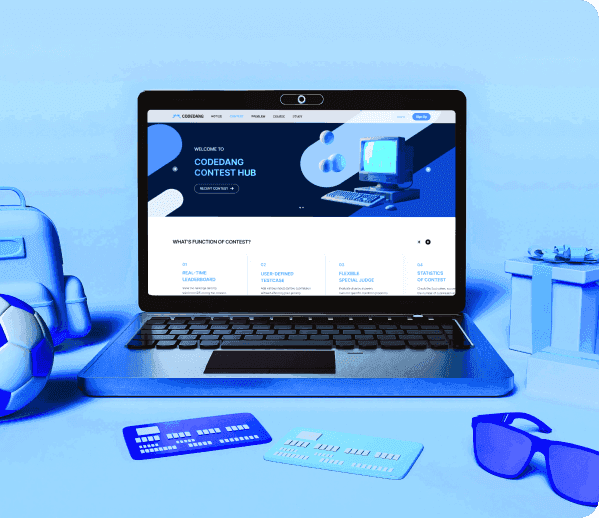
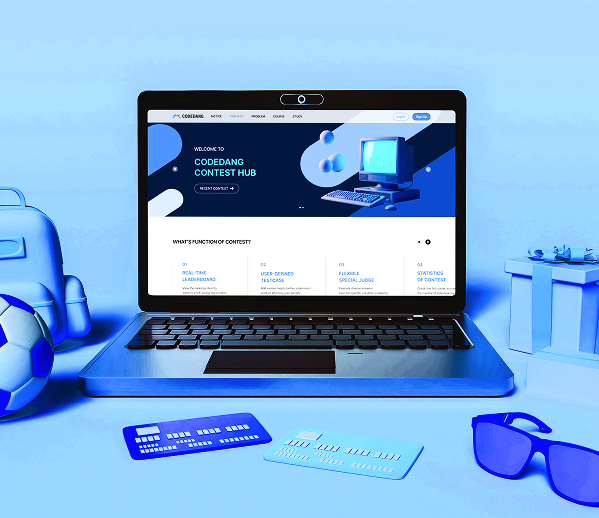
fix(fe): mainpage mainbanner and middlebanner rereupload

diff --git a/apps/frontend/app/(client)/(main)/page.tsx b/apps/frontend/app/(client)/(main)/page.tsx
@@ -12,7 +12,7 @@ const slides = [
     topTitle: 'YOUR CODING JOURNEY',
     bottomTitle: 'STARTS HERE',
     sub: "Practice real problems, compete with peers.\nGrow your skills on SKKU's coding platform.",
-    img: '/banners/mainBanner.png',
+    img: '/banners/main_banner.png',
     imgAlt: 'Codedang',
     href: 'https://about-codedang.framer.website'
   }
